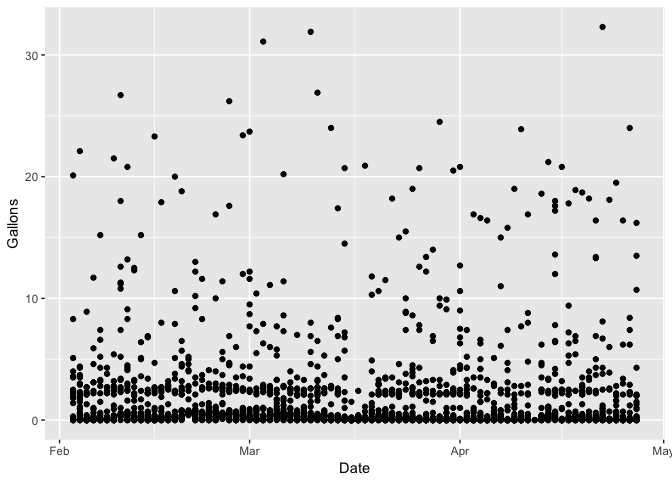
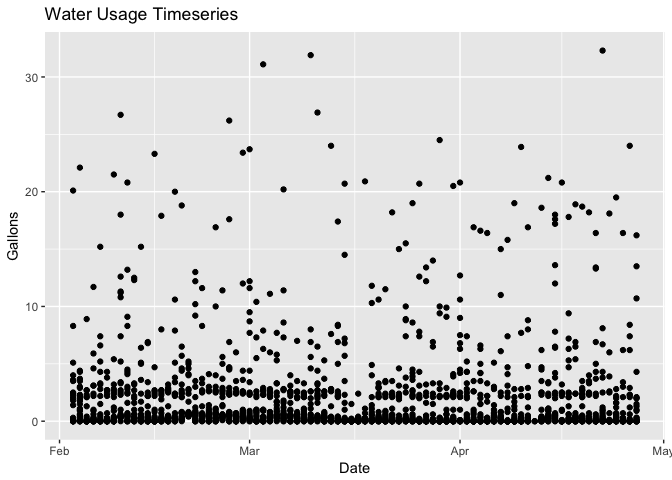
fix error w/ figure

diff --git a/_posts/2018-04-29-water_usage.md b/_posts/2018-04-29-water_usage.md
@@ -85,25 +85,13 @@ They just upgraded to recording meters, so the data only goes back to the beginn
 dat %>% ggplot(aes(as.Date(Read_Time),gallons))+
   geom_point()+
   xlab("Date")+
-  ylab("Gallons")
+  ylab("Gallons")+
+  ggtitle("Water Usage Timeseries")
 ```
 
 ![](/images/water_use/unnamed-chunk-1-1.png)
 
-```r
-  ggtitle("Water Usage Timeseries")
-```
 
-```
-## $title
-## [1] "Water Usage Timeseries"
-##
-## $subtitle
-## NULL
-##
-## attr(,"class")
-## [1] "labels"
-```
 
 ## Distribution of flow values
 
